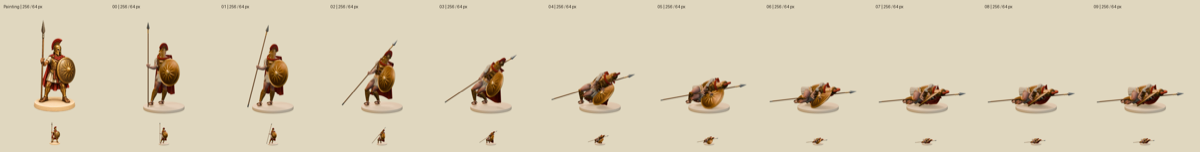
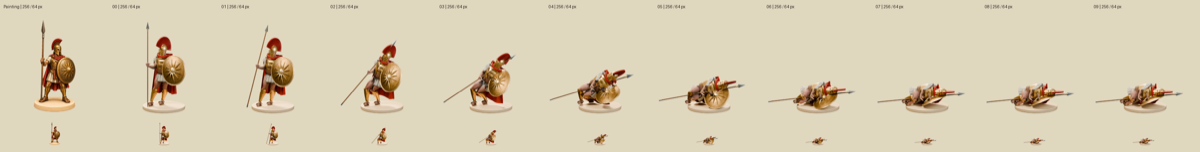
3D spearman interim review images

diff --git a/tools/art/anim3d/review/horseman-log.md b/tools/art/anim3d/review/horseman-log.md
@@ -5,3 +5,6 @@
 - glTF hard-normal vertex splits produced fractured subdivision; welded coincident vertices before smoothing, retaining weights/material assignments.
 - First textured stage posted; horse and rider recognizable, but rider undersized and surfaces below painting. Enlarging seated rider, adding crest/mane volume and actual AO/curvature bakes.
 - Shared blender-slot changed externally to one machine-wide process while working; all new calls continue through the current gate and wait their turn.
+- Textured/detail renders now include MPFB face/skin, short beard, dark helmet crest, CC0 scan materials and actual AO/Pointiness maps on helmet, skin and horse.
+- First death review caught source sideways travel, clipped head/rider and rider/base penetration. Added front-leg buckle, recentering and contact corrections; geometry audit passed all five clips.
+- Reduced hide specular, added visible mane locks, flowing tail fibres and bronze breast-strap discs; rendering revised stage and clip evidence.
